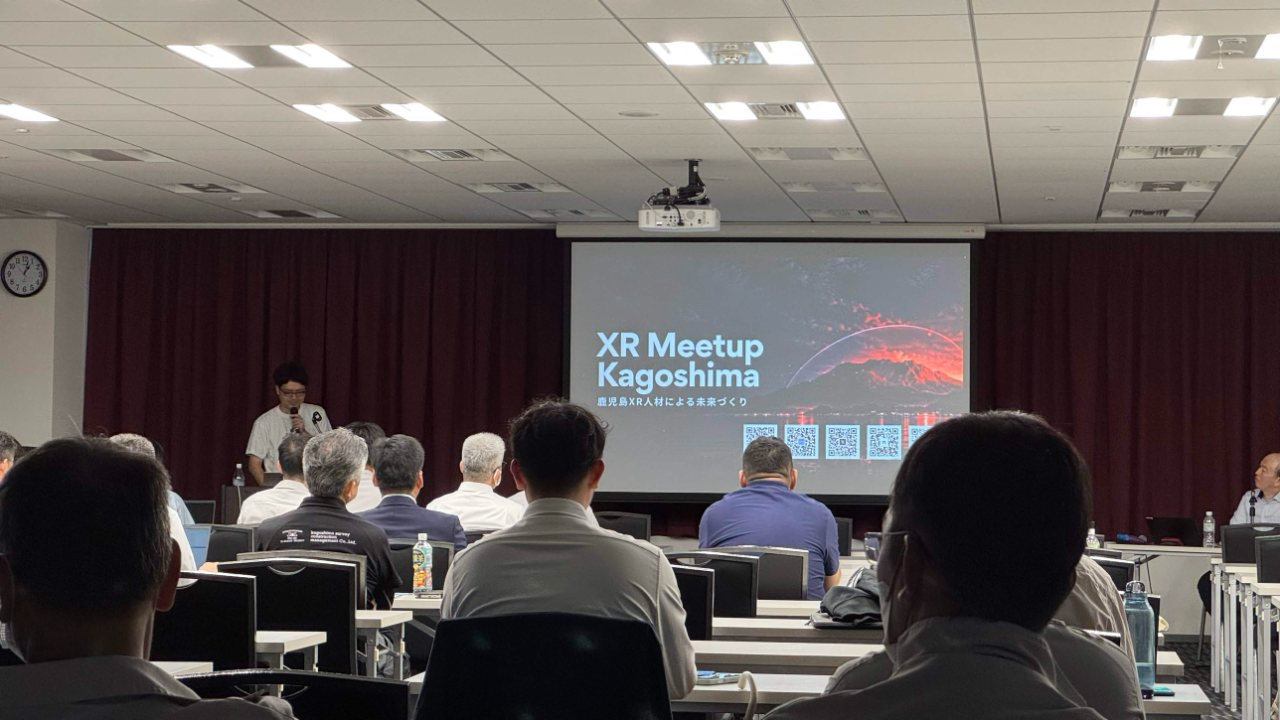
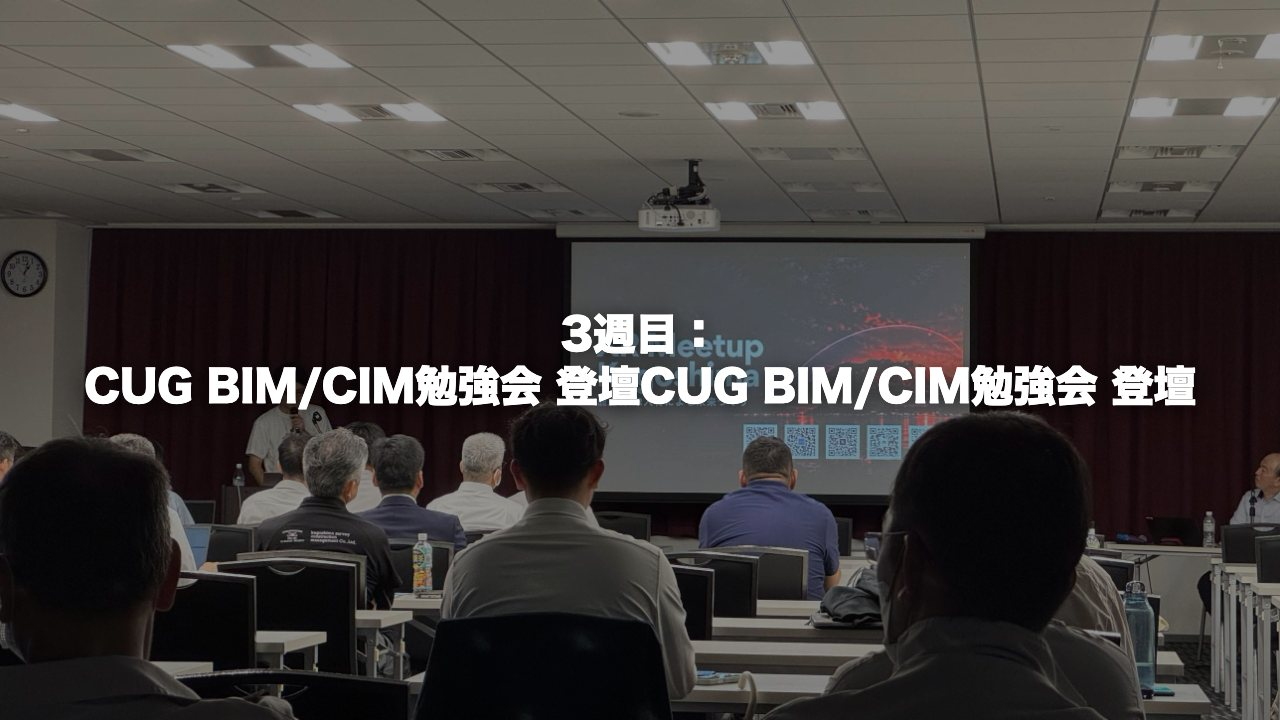
参加者向けスライドを編集内容に合わせて更新する

diff --git a/claude-meetup/index.html b/claude-meetup/index.html
@@ -31,7 +31,7 @@
 <div id="toast" role="status" hidden></div>
 <script>
 (function () {
-  const ALL = [{"id": "title", "alt": "LTしたい Codex使いは Claude Codeの世界に 足を踏み入れる"}, {"id": "photoOk", "alt": "撮影・SNS投稿 大歓迎"}, {"id": "sameIdea", "alt": "鮫さんの 登壇スタイルを 真似します"}, {"id": "audienceQr", "alt": "登壇資料を 手元のスマホでも 見られます！ X投稿も可能！"}, {"id": "profile", "alt": "あぶち"}, {"id": "fourWeeks", "alt": "4週連続"}, {"id": "week1", "hidden": true}, {"id": "week2", "alt": ""}, {"id": "week2b", "alt": ""}, {"id": "week3", "alt": ""}, {"id": "week3b", "alt": ""}, {"id": "week4", "hidden": true}, {"id": "finally", "alt": "やっと 終わった"}, {"id": "karakuni", "alt": "明日は 韓国岳"}, {"id": "tokyo", "alt": "明後日は 東京"}, {"id": "busy", "alt": "忙しすぎィ！"}, {"id": "stillLt", "alt": "それでも LTに出たい"}, {"id": "pagemvv6107c", "alt": "なぜなのか！？"}, {"id": "komyusho", "alt": "コミュ障だから！"}, {"id": "mingleHard", "alt": "交流タイムが つらい"}, {"id": "ltMeishi", "alt": "LTは 名刺代わり"}, {"id": "getTalked", "alt": "話しかけて もらえる"}, {"id": "komyushoLt", "alt": "コミュ障ほど LTしよう！！"}, {"id": "soThen", "alt": "というわけで"}, {"id": "meishiIppatsu", "alt": "名刺代わりのLTを ここで一発"}, {"id": "codexAll", "alt": "仕事も 趣味も Codex"}, {"id": "claudeStart", "alt": "Claude Codeを 触ってみた"}, {"id": "atarimaeEarly", "alt": "「当たり前じゃん」と 思った人"}, {"id": "howMade", "alt": "この資料は"}, {"id": "voiceMemo", "alt": "日々の思いつきを Codexにメモ"}, {"id": "handoff", "alt": "Codexが 引き継ぎ書に"}, {"id": "claudeSlides", "alt": "Claudeが スライドに"}, {"id": "spell", "alt": "SpellCastXR"}, {"id": "spellBoard", "alt": "タスクを ボードに"}, {"id": "spellPick", "alt": "1つずつ 拾わせる"}, {"id": "spellSmall", "alt": "人間サイズの タスク"}, {"id": "spellCheck", "alt": "動作確認が 多すぎる"}, {"id": "spell2mo", "alt": "AIを使って 2ヶ月"}, {"id": "tsukafes", "alt": "TSUKAFESで 展示"}, {"id": "day1", "alt": "1日目"}, {"id": "flop", "alt": "思ったより 盛り上がらない"}, {"id": "day2", "alt": "2日目は"}, {"id": "tatsuAgain", "alt": "タツノオトシゴXR"}, {"id": "tatsu", "alt": "2024年 辰年"}, {"id": "tatsu24h", "alt": "大晦日から元旦 24時間展示"}, {"id": "tatsuHand", "alt": "手作業で 1ヶ月"}, {"id": "hot", "alt": "盛り上がった"}, {"id": "grow", "alt": "もっと 育てたい"}, {"id": "nextDay", "alt": "展示が 終わった翌日"}, {"id": "standalone", "alt": "スタンドアロンに したい"}, {"id": "ueWater", "alt": "UEだと 水が描けない"}, {"id": "toUnity", "alt": "Codexと相談して Unityへ"}, {"id": "goal", "alt": "ゴールだけ 伝える"}, {"id": "hours13", "alt": "約13時間"}, {"id": "check5", "alt": "動作確認は 5回くらい"}, {"id": "easy", "alt": "あっさり できた"}, {"id": "ai100", "alt": "コードは 100% AI製"}, {"id": "handcodeOver", "alt": "手でコードを書く 時代は 終わった"}, {"id": "noHumanSteps", "alt": "人の手順を なぞらなくていい"}, {"id": "noWall", "alt": "作ることは もう壁じゃない"}, {"id": "humanRole", "alt": "じゃあ 人は何をする？"}, {"id": "ideaFirst", "alt": "最初のアイデアが 肝心"}, {"id": "notCan", "alt": "何ができるか より"}, {"id": "whatMake", "alt": "何を 作りたいか"}, {"id": "creator", "alt": "どんな作品を 作るか"}, {"id": "artist", "alt": "全人類 アーティスト？"}, {"id": "tokyoShop", "alt": "東京なら 家電量販店で 体験できる"}, {"id": "kagoNone", "alt": "鹿児島には 体験できる場が ない"}, {"id": "fewMeet", "alt": "出会う きっかけが 少ない"}, {"id": "fewLearn", "alt": "学ぶ機会も 少ない"}, {"id": "soCommunity", "alt": "だから コミュニティ"}, {"id": "event", "alt": "体験会"}, {"id": "exhibit", "alt": "展示"}, {"id": "knowXr", "alt": "XRを 知ってもらう"}, {"id": "study", "alt": "勉強会で 学ぶ"}, {"id": "make", "alt": "作る"}, {"id": "show", "alt": "作ったものを 展示する"}, {"id": "newPeople", "alt": "また誰かが 体験する"}, {"id": "loop", "alt": "体験と学びの ループ"}, {"id": "loopKago", "alt": "このループを 鹿児島に"}, {"id": "xrm", "alt": "XR Meetup Kagoshima"}, {"id": "okQ", "alt": "Claude初心者でも 登壇して 大丈夫？"}, {"id": "ok", "alt": "触り始めでも 話していい"}, {"id": "atarimae", "alt": "「当たり前じゃん」と 思った人"}, {"id": "canTalk", "alt": "もう 登壇できます"}, {"id": "yourTurn", "alt": "次は あなたの番"}, {"id": "thanks", "alt": "ありがとう ございました"}];
+  const ALL = [{"id": "title", "alt": "LTしたい Codex使いは Claude Codeの世界に 足を踏み入れる"}, {"id": "photoOk", "alt": "撮影・SNS投稿 大歓迎"}, {"id": "sameIdea", "alt": "鮫さんの 登壇スタイルを 真似します"}, {"id": "audienceQr", "alt": "登壇資料を 手元のスマホでも 見られます！ X投稿も可能！"}, {"id": "profile", "alt": "あぶち"}, {"id": "fourWeeks", "alt": "4週連続"}, {"id": "week1", "alt": "1週目： XRコンテンツを作ってみる会"}, {"id": "week1b", "alt": "1週目： XRコンテンツを作ってみる会"}, {"id": "pagemvv8d4pn", "alt": "2週目： さくらじまハウス2026 運営/登壇"}, {"id": "week2b", "alt": "3週目： CUG BIM/CIM勉強会 登壇"}, {"id": "week2", "alt": "3週目： CUG BIM/CIM勉強会 登壇CUG BIM/CIM勉強会 登壇"}, {"id": "week3b", "alt": "3週目： CUG BIM/CIM勉強会 登壇TSUKAFES ブース出展"}, {"id": "week3", "alt": "3週目： CUG BIM/CIM勉強会 登壇TSUKAFES ブース出展"}, {"id": "week4", "alt": "4週目： Kagoshima | Claude Meetup"}, {"id": "finally", "alt": "やっと 終わった"}, {"id": "karakuni", "alt": "明日は霧島登山"}, {"id": "tokyo", "alt": "明後日は東京 Unreal Fest"}, {"id": "busy", "alt": "忙しすぎィ！"}, {"id": "stillLt", "alt": "それでも LTに出たい"}, {"id": "pagemvv6107c", "alt": "なぜなのか！？"}, {"id": "komyusho", "alt": "コミュ障だから！"}, {"id": "mingleHard", "alt": "交流タイムが つらい"}, {"id": "ltMeishi", "alt": "LTは 名刺代わり"}, {"id": "getTalked", "alt": "話しかけて もらえる"}, {"id": "komyushoLt", "alt": "コミュ障ほど LTしよう！！"}, {"id": "soThen", "alt": "というわけで"}, {"id": "meishiIppatsu", "alt": "名刺代わりのLTを ここで一発"}, {"id": "codexAll", "alt": "仕事も 趣味も Codex"}, {"id": "claudeStart", "alt": "Claude Codeを 触ってみた"}, {"id": "atarimaeEarly", "alt": "「当たり前じゃん」と 思った人"}, {"id": "howMade", "alt": "この資料は"}, {"id": "voiceMemo", "alt": "日々の思いつきを Codexにメモ"}, {"id": "handoff", "alt": "Codexが 引き継ぎ書に"}, {"id": "claudeSlides", "alt": "Claudeが スライドに"}, {"id": "spell", "alt": "SpellCastXR"}, {"id": "spellBoard", "alt": "タスクを ボードに"}, {"id": "spellPick", "alt": "1つずつ 拾わせる"}, {"id": "spellSmall", "alt": "人間サイズの タスク"}, {"id": "spellCheck", "alt": "動作確認が 多すぎる"}, {"id": "spell2mo", "alt": "AIを使って 2ヶ月"}, {"id": "tsukafes", "alt": "TSUKAFESで 展示"}, {"id": "day1", "alt": "1日目"}, {"id": "flop", "alt": "思ったより 盛り上がらない"}, {"id": "day2", "alt": "2日目は"}, {"id": "tatsuAgain", "alt": "タツノオトシゴXR"}, {"id": "tatsu", "alt": "2024年 辰年"}, {"id": "tatsu24h", "alt": "大晦日から元旦 24時間展示"}, {"id": "tatsuHand", "alt": "手作業で 1ヶ月"}, {"id": "hot", "alt": "盛り上がった"}, {"id": "grow", "alt": "もっと 育てたい"}, {"id": "nextDay", "alt": "展示が 終わった翌日"}, {"id": "standalone", "alt": "スタンドアロンに したい"}, {"id": "ueWater", "alt": "UEだと 水が描けない"}, {"id": "toUnity", "alt": "Codexと相談して Unityへ"}, {"id": "goal", "alt": "ゴールだけ 伝える"}, {"id": "hours13", "alt": "約13時間"}, {"id": "check5", "alt": "動作確認は 5回くらい"}, {"id": "easy", "alt": "あっさり できた"}, {"id": "ai100", "alt": "コードは 100% AI製"}, {"id": "handcodeOver", "alt": "手でコードを書く 時代は 終わった"}, {"id": "noHumanSteps", "alt": "人の手順を なぞらなくていい"}, {"id": "noWall", "alt": "作ることは もう壁じゃない"}, {"id": "humanRole", "alt": "じゃあ 人は何をする？"}, {"id": "ideaFirst", "alt": "最初のアイデアが 肝心"}, {"id": "notCan", "alt": "何ができるか より"}, {"id": "whatMake", "alt": "何を 作りたいか"}, {"id": "creator", "alt": "どんな作品を 作るか"}, {"id": "artist", "alt": "全人類 アーティスト？"}, {"id": "tokyoShop", "alt": "東京なら 家電量販店で 体験できる"}, {"id": "kagoNone", "alt": "鹿児島には 体験できる場が ない"}, {"id": "fewMeet", "alt": "出会う きっかけが 少ない"}, {"id": "fewLearn", "alt": "学ぶ機会も 少ない"}, {"id": "soCommunity", "alt": "だから コミュニティ"}, {"id": "event", "alt": "体験会"}, {"id": "exhibit", "alt": "展示"}, {"id": "knowXr", "alt": "XRを 知ってもらう"}, {"id": "study", "alt": "勉強会で 学ぶ"}, {"id": "make", "alt": "作る"}, {"id": "show", "alt": "作ったものを 展示する"}, {"id": "newPeople", "alt": "また誰かが 体験する"}, {"id": "loop", "alt": "体験と学びの ループ"}, {"id": "loopKago", "alt": "このループを 鹿児島に"}, {"id": "xrm", "alt": "XR Meetup Kagoshima"}, {"id": "okQ", "alt": "Claude初心者でも 登壇して 大丈夫？"}, {"id": "ok", "alt": "触り始めでも 話していい"}, {"id": "atarimae", "alt": "「当たり前じゃん」と 思った人"}, {"id": "canTalk", "alt": "もう 登壇できます"}, {"id": "yourTurn", "alt": "次は あなたの番"}, {"id": "thanks", "alt": "ありがとう ございました"}];
   const TOPIC = "abchee-lt-4d766b75dfda80be", BASE = "https://abricheese.github.io/talks/claude-meetup/", TITLE = "LTしたいCodex使いはClaude Codeの世界に足を踏み入れる", HASHTAG = "#ClaudeCommunityKagoshima";
   const slides = ALL.filter(s => !s.hidden);
   const $ = id => document.getElementById(id);

diff --git a/claude-meetup/s/pagemvv8d4pn.html b/claude-meetup/s/pagemvv8d4pn.html
@@ -1,0 +1,10 @@
+<!doctype html><html lang="ja"><head><meta charset="utf-8">
+<title>LTしたいCodex使いはClaude Codeの世界に足を踏み入れる</title>
+<meta property="og:title" content="LTしたいCodex使いはClaude Codeの世界に足を踏み入れる">
+<meta property="og:description" content="2週目： さくらじまハウス2026 運営/登壇">
+<meta property="og:image" content="https://abricheese.github.io/talks/claude-meetup/slides/pagemvv8d4pn.jpg">
+<meta property="og:url" content="https://abricheese.github.io/talks/claude-meetup/s/pagemvv8d4pn.html">
+<meta property="og:type" content="website">
+<meta name="twitter:card" content="summary_large_image">
+<meta http-equiv="refresh" content="0; url=../#pagemvv8d4pn">
+</head><body><a href="../#pagemvv8d4pn">スライドを開く</a></body></html>

diff --git a/claude-meetup/s/week1b.html b/claude-meetup/s/week1b.html
@@ -1,0 +1,10 @@
+<!doctype html><html lang="ja"><head><meta charset="utf-8">
+<title>LTしたいCodex使いはClaude Codeの世界に足を踏み入れる</title>
+<meta property="og:title" content="LTしたいCodex使いはClaude Codeの世界に足を踏み入れる">
+<meta property="og:description" content="1週目： XRコンテンツを作ってみる会">
+<meta property="og:image" content="https://abricheese.github.io/talks/claude-meetup/slides/week1b.jpg">
+<meta property="og:url" content="https://abricheese.github.io/talks/claude-meetup/s/week1b.html">
+<meta property="og:type" content="website">
+<meta name="twitter:card" content="summary_large_image">
+<meta http-equiv="refresh" content="0; url=../#week1b">
+</head><body><a href="../#week1b">スライドを開く</a></body></html>

diff --git a/claude-meetup/s/week1.html b/claude-meetup/s/week1.html
@@ -1,0 +1,10 @@
+<!doctype html><html lang="ja"><head><meta charset="utf-8">
+<title>LTしたいCodex使いはClaude Codeの世界に足を踏み入れる</title>
+<meta property="og:title" content="LTしたいCodex使いはClaude Codeの世界に足を踏み入れる">
+<meta property="og:description" content="1週目： XRコンテンツを作ってみる会">
+<meta property="og:image" content="https://abricheese.github.io/talks/claude-meetup/slides/week1.jpg">
+<meta property="og:url" content="https://abricheese.github.io/talks/claude-meetup/s/week1.html">
+<meta property="og:type" content="website">
+<meta name="twitter:card" content="summary_large_image">
+<meta http-equiv="refresh" content="0; url=../#week1">
+</head><body><a href="../#week1">スライドを開く</a></body></html>

diff --git a/claude-meetup/s/week4.html b/claude-meetup/s/week4.html
@@ -1,0 +1,10 @@
+<!doctype html><html lang="ja"><head><meta charset="utf-8">
+<title>LTしたいCodex使いはClaude Codeの世界に足を踏み入れる</title>
+<meta property="og:title" content="LTしたいCodex使いはClaude Codeの世界に足を踏み入れる">
+<meta property="og:description" content="4週目： Kagoshima | Claude Meetup">
+<meta property="og:image" content="https://abricheese.github.io/talks/claude-meetup/slides/week4.jpg">
+<meta property="og:url" content="https://abricheese.github.io/talks/claude-meetup/s/week4.html">
+<meta property="og:type" content="website">
+<meta name="twitter:card" content="summary_large_image">
+<meta http-equiv="refresh" content="0; url=../#week4">
+</head><body><a href="../#week4">スライドを開く</a></body></html>

diff --git a/claude-meetup/s/week2.html b/claude-meetup/s/week2.html
@@ -1,7 +1,7 @@
 <!doctype html><html lang="ja"><head><meta charset="utf-8">
 <title>LTしたいCodex使いはClaude Codeの世界に足を踏み入れる</title>
 <meta property="og:title" content="LTしたいCodex使いはClaude Codeの世界に足を踏み入れる">
-<meta property="og:description" content="LTしたいCodex使いはClaude Codeの世界に足を踏み入れる">
+<meta property="og:description" content="3週目： CUG BIM/CIM勉強会 登壇CUG BIM/CIM勉強会 登壇">
 <meta property="og:image" content="https://abricheese.github.io/talks/claude-meetup/slides/week2.jpg">
 <meta property="og:url" content="https://abricheese.github.io/talks/claude-meetup/s/week2.html">
 <meta property="og:type" content="website">

diff --git a/claude-meetup/s/week3b.html b/claude-meetup/s/week3b.html
@@ -1,7 +1,7 @@
 <!doctype html><html lang="ja"><head><meta charset="utf-8">
 <title>LTしたいCodex使いはClaude Codeの世界に足を踏み入れる</title>
 <meta property="og:title" content="LTしたいCodex使いはClaude Codeの世界に足を踏み入れる">
-<meta property="og:description" content="LTしたいCodex使いはClaude Codeの世界に足を踏み入れる">
+<meta property="og:description" content="3週目： CUG BIM/CIM勉強会 登壇TSUKAFES ブース出展">
 <meta property="og:image" content="https://abricheese.github.io/talks/claude-meetup/slides/week3b.jpg">
 <meta property="og:url" content="https://abricheese.github.io/talks/claude-meetup/s/week3b.html">
 <meta property="og:type" content="website">

diff --git a/claude-meetup/s/week3.html b/claude-meetup/s/week3.html
@@ -1,7 +1,7 @@
 <!doctype html><html lang="ja"><head><meta charset="utf-8">
 <title>LTしたいCodex使いはClaude Codeの世界に足を踏み入れる</title>
 <meta property="og:title" content="LTしたいCodex使いはClaude Codeの世界に足を踏み入れる">
-<meta property="og:description" content="LTしたいCodex使いはClaude Codeの世界に足を踏み入れる">
+<meta property="og:description" content="3週目： CUG BIM/CIM勉強会 登壇TSUKAFES ブース出展">
 <meta property="og:image" content="https://abricheese.github.io/talks/claude-meetup/slides/week3.jpg">
 <meta property="og:url" content="https://abricheese.github.io/talks/claude-meetup/s/week3.html">
 <meta property="og:type" content="website">

diff --git a/claude-meetup/s/week2b.html b/claude-meetup/s/week2b.html
@@ -1,7 +1,7 @@
 <!doctype html><html lang="ja"><head><meta charset="utf-8">
 <title>LTしたいCodex使いはClaude Codeの世界に足を踏み入れる</title>
 <meta property="og:title" content="LTしたいCodex使いはClaude Codeの世界に足を踏み入れる">
-<meta property="og:description" content="LTしたいCodex使いはClaude Codeの世界に足を踏み入れる">
+<meta property="og:description" content="3週目： CUG BIM/CIM勉強会 登壇">
 <meta property="og:image" content="https://abricheese.github.io/talks/claude-meetup/slides/week2b.jpg">
 <meta property="og:url" content="https://abricheese.github.io/talks/claude-meetup/s/week2b.html">
 <meta property="og:type" content="website">

diff --git a/claude-meetup/s/tokyo.html b/claude-meetup/s/tokyo.html
@@ -1,7 +1,7 @@
 <!doctype html><html lang="ja"><head><meta charset="utf-8">
 <title>LTしたいCodex使いはClaude Codeの世界に足を踏み入れる</title>
 <meta property="og:title" content="LTしたいCodex使いはClaude Codeの世界に足を踏み入れる">
-<meta property="og:description" content="明後日は 東京">
+<meta property="og:description" content="明後日は東京 Unreal Fest">
 <meta property="og:image" content="https://abricheese.github.io/talks/claude-meetup/slides/tokyo.jpg">
 <meta property="og:url" content="https://abricheese.github.io/talks/claude-meetup/s/tokyo.html">
 <meta property="og:type" content="website">

diff --git a/claude-meetup/s/karakuni.html b/claude-meetup/s/karakuni.html
@@ -1,7 +1,7 @@
 <!doctype html><html lang="ja"><head><meta charset="utf-8">
 <title>LTしたいCodex使いはClaude Codeの世界に足を踏み入れる</title>
 <meta property="og:title" content="LTしたいCodex使いはClaude Codeの世界に足を踏み入れる">
-<meta property="og:description" content="明日は 韓国岳">
+<meta property="og:description" content="明日は霧島登山">
 <meta property="og:image" content="https://abricheese.github.io/talks/claude-meetup/slides/karakuni.jpg">
 <meta property="og:url" content="https://abricheese.github.io/talks/claude-meetup/s/karakuni.html">
 <meta property="og:type" content="website">
